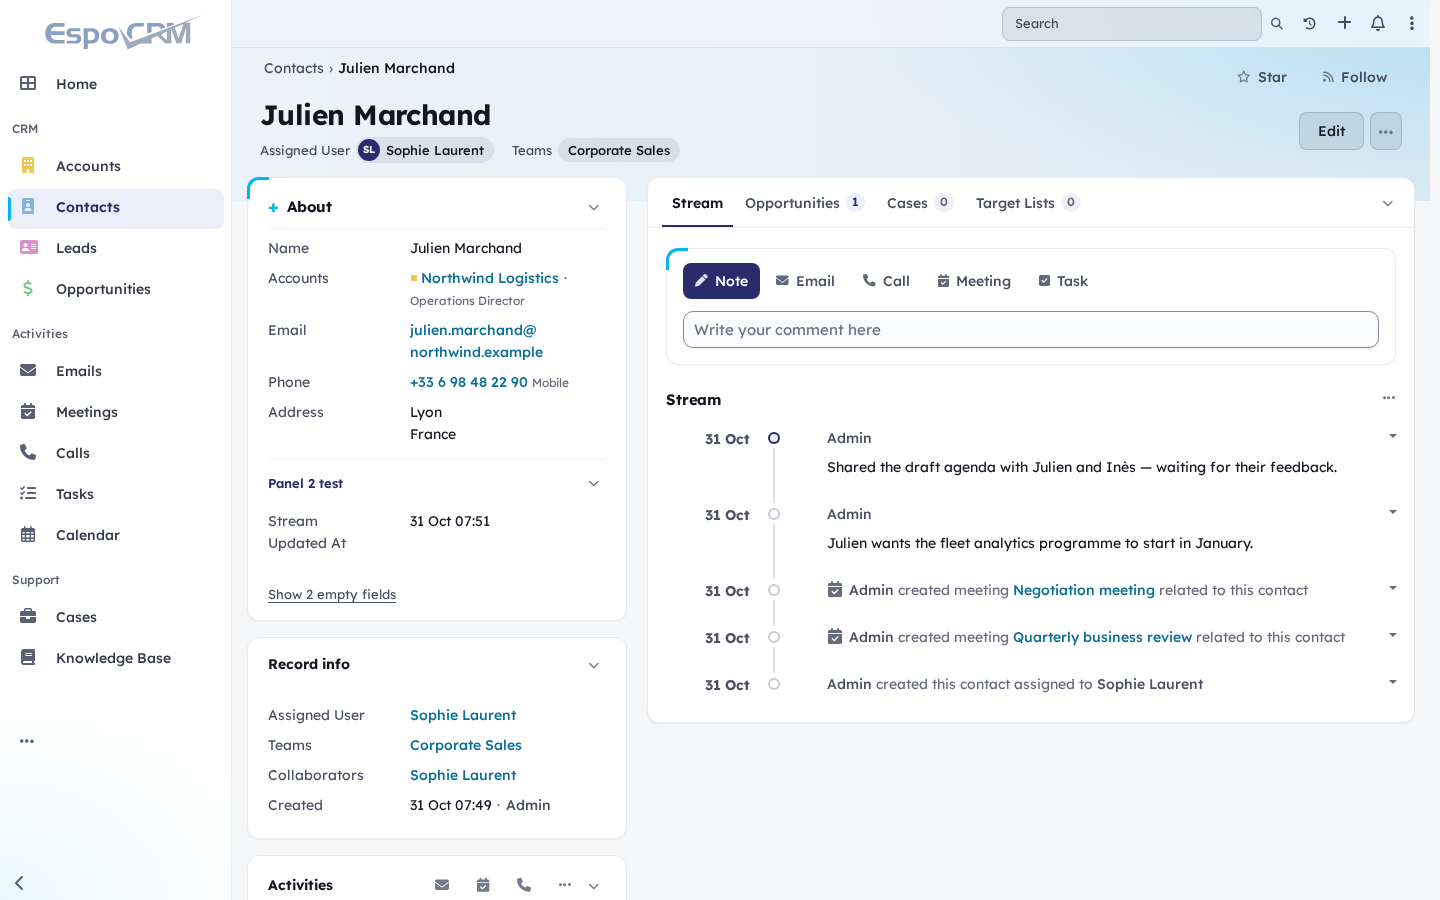
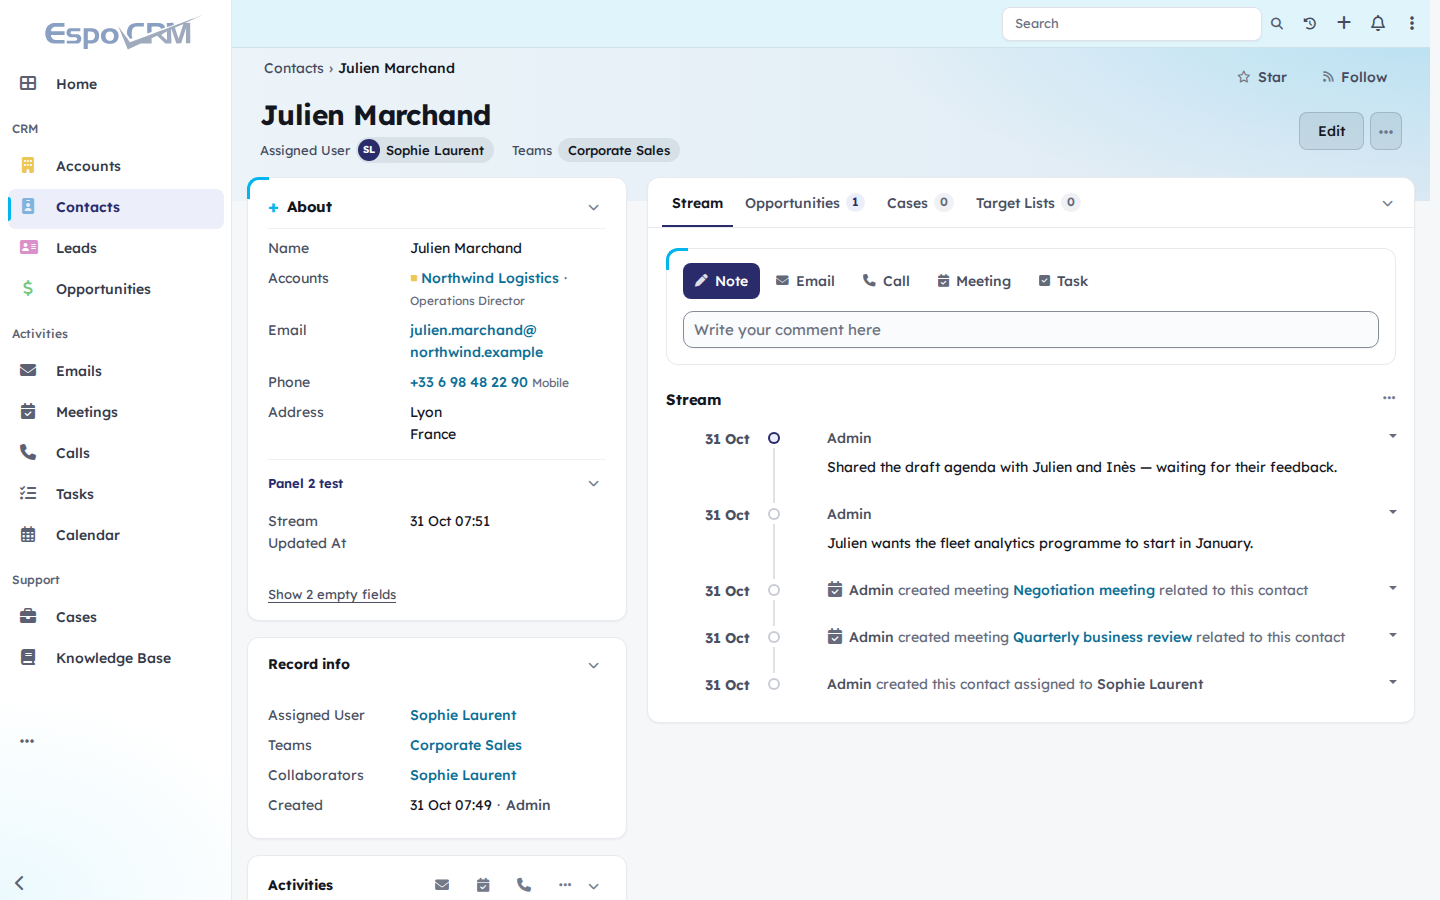
feat: light blue top bar
The top bar uses the column hover blue on lists and records, and in top menu
mode. The search field is white everywhere.

diff --git a/src/files/client/custom/modules/lucid-theme/css/lucid-shell.css b/src/files/client/custom/modules/lucid-theme/css/lucid-shell.css
@@ -165,9 +165,7 @@ body[data-navbar="side"] #navbar a.minimizer:hover {
 /* ===== Top bar ===== */
 body[data-navbar="side"] #navbar .navbar-right {
     align-items: center;
-    border-bottom: 1px solid var(--lucid-border);
-    -webkit-backdrop-filter: saturate(1.4) blur(10px);
-    backdrop-filter: saturate(1.4) blur(10px);
+    border-bottom: 1px solid var(--lucid-band-divider);
 }
 
 body[data-navbar="side"] #navbar .navbar-right > li {
@@ -225,8 +223,13 @@ body[data-navbar="side"] #navbar .navbar-right .global-search-container a.global
 
 /* ===== Top bar (top navbar mode) ===== */
 body[data-navbar="top"] #navbar .navbar {
-    border-bottom: 1px solid var(--lucid-border);
+    background-color: var(--lucid-band-topbar);
+    border-bottom: 1px solid var(--lucid-band-divider);
     box-shadow: none;
+}
+
+body[data-navbar="top"] #navbar .navbar ul.tabs li.tab-group {
+    background-color: transparent;
 }
 
 /* ===== Page header ===== */

diff --git a/src/files/client/custom/modules/lucid-theme/css/lucid-detail.css b/src/files/client/custom/modules/lucid-theme/css/lucid-detail.css
@@ -50,17 +50,6 @@ body:has(.lucid-record) #navbar .navbar-right > li.open > a {
     color: var(--lucid-band-text);
 }
 
-body:has(.lucid-record) #navbar .navbar-right input.global-search-input {
-    background: var(--lucid-band-fill-2);
-    border-color: var(--lucid-band-line);
-    color: var(--lucid-band-text);
-    box-shadow: none;
-}
-
-body:has(.lucid-record) #navbar .navbar-right input.global-search-input::placeholder {
-    color: var(--lucid-band-muted);
-}
-
 body:has(.lucid-record) #navbar .navbar-right .global-search-container a.global-search-button {
     color: var(--lucid-band-muted);
 }

diff --git a/src/files/client/custom/modules/lucid-theme/css/lucid-tokens.css b/src/files/client/custom/modules/lucid-theme/css/lucid-tokens.css
@@ -96,7 +96,7 @@
     --lucid-band-line: rgba(10, 25, 43, 0.16);
     --lucid-band-gradient: linear-gradient(90deg, #eef5f9 0%, #e6f0f7 55%, #dce9f3 100%);
     --lucid-band-glow: radial-gradient(60rem 22rem at 100% 0%, rgba(0, 182, 237, 0.18), transparent 60%);
-    --lucid-band-topbar: rgba(238, 245, 249, 0.85);
+    --lucid-band-topbar: var(--lucid-table-head-hover);
     --lucid-band-overlap: var(--24px);
     --lucid-band-divider: rgba(10, 25, 43, 0.08);
     --lucid-band-fill-1: rgba(10, 25, 43, 0.05);

diff --git a/src/files/client/custom/modules/lucid-theme/css/lucid-espo-vars.css b/src/files/client/custom/modules/lucid-theme/css/lucid-espo-vars.css
@@ -158,7 +158,7 @@
     /* Side menu (inverse navbar) and top bar (navbar) */
     --navbar-border-width: var(--1px);
     --navbar-box-shadow: none;
-    --navbar-bg: rgba(246, 247, 249, 0.86);
+    --navbar-bg: var(--lucid-band-topbar);
     --navbar-link-color: var(--lucid-n-500);
     --navbar-link-hover-color: var(--lucid-text);
     --navbar-link-hover-bg: var(--lucid-hover);

diff --git a/README.md b/README.md
@@ -70,7 +70,7 @@ All data in the screenshots is fictitious.
 - **Empty fields hidden** behind a "Show N empty fields" link, all shown while editing.
 - **Readability.** One typeface, Lexend, for text and titles; labels as large as values; record
   links coloured so that what is clickable stands out; comfortable form fields.
-- **Light palette.** White sidebar, ice-blue record band, cards with a cyan corner mark.
+- **Light palette.** White sidebar, light blue top bar, ice-blue record band, cards with a cyan corner mark.
   Colours are CSS tokens (`--lucid-band-*`, `--lucid-sidebar-*`, `--lucid-table-*`), easy to retune.
 - **Marked table columns.** Tinted uppercase headers with vertical lines, a cyan tint when hovering a
   column, and a clearer row hover, in lists and in the tables of a record.
